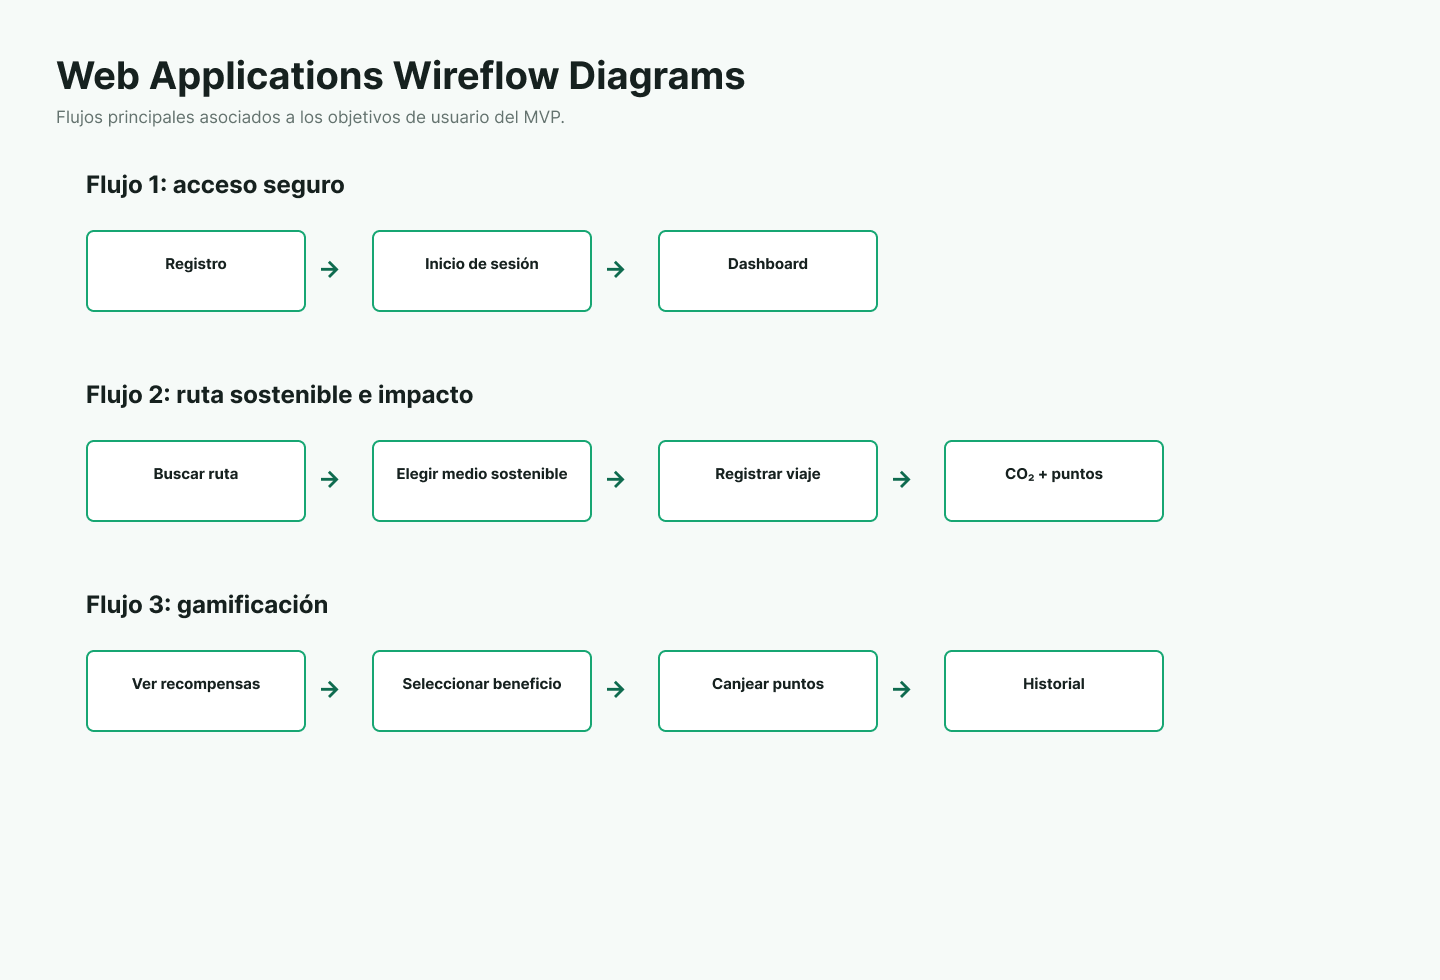
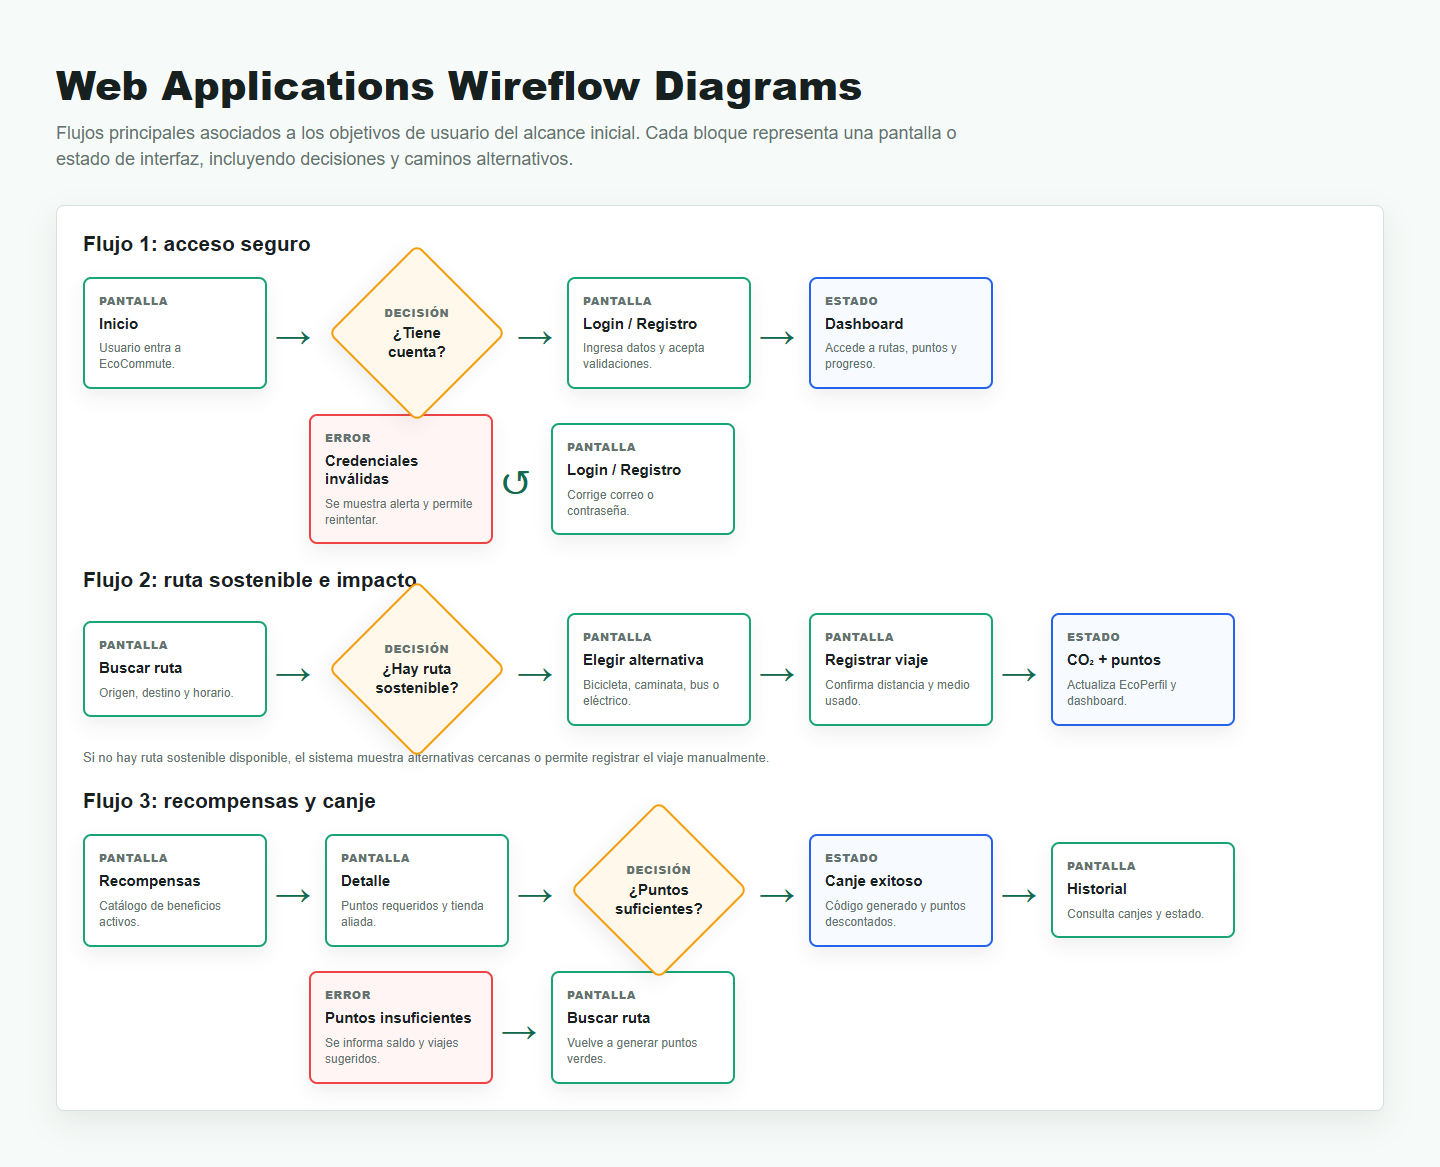
Improve wireflow diagrams

diff --git a/generate_cap3_assets.js b/generate_cap3_assets.js
@@ -83,6 +83,29 @@ const html = String.raw`<!doctype html>
   .flow { display:flex; align-items:center; gap:20px; margin-bottom:24px; }
   .flowbox { background:white; border:2px solid var(--green); border-radius:8px; padding:20px; width:230px; min-height:82px; font-weight:800; display:flex; align-items:center; justify-content:center; text-align:center; }
   .arrow { color:var(--green-dark); font-size:36px; font-weight:900; }
+  .wireflow-card { padding: 26px; }
+  .wireflow-grid { display:grid; gap:24px; }
+  .flow-row { display:grid; grid-template-columns: 184px 42px 184px 42px 184px 42px 184px 42px 184px; align-items:center; gap:8px; }
+  .flow-row.short { grid-template-columns: 184px 42px 184px 42px 184px 42px 184px; }
+  .screen-node,
+  .decision-node,
+  .state-node { min-height:94px; border-radius:8px; padding:14px; background:var(--white); border:2px solid var(--green); display:flex; flex-direction:column; justify-content:center; gap:7px; box-shadow:0 8px 18px rgba(22,33,31,.07); }
+  .screen-node span,
+  .decision-node span,
+  .state-node span { font-size:11px; text-transform:uppercase; letter-spacing:.06em; color:var(--muted); font-weight:800; }
+  .screen-node strong,
+  .decision-node strong,
+  .state-node strong { font-size:15px; line-height:1.25; }
+  .screen-node p,
+  .decision-node p,
+  .state-node p { margin:0; color:var(--muted); font-size:12px; line-height:1.35; }
+  .decision-node { width:126px; min-height:126px; justify-self:center; transform:rotate(45deg); border-color:var(--amber); background:#FFF8EB; }
+  .decision-node > div { transform:rotate(-45deg); text-align:center; }
+  .decision-node span { display:block; margin-bottom:4px; }
+  .state-node { border-color:var(--blue); background:#F7FAFF; }
+  .error-node { border-color:#EF4444; background:#FFF5F5; }
+  .flow-note { color:var(--muted); font-size:13px; margin:18px 0 0; }
+  .flow-branch { margin-top:18px; margin-left:226px; display:grid; grid-template-columns:184px 42px 184px; align-items:center; gap:8px; }
   .erd { display:grid; grid-template-columns: repeat(4, 1fr); gap:18px; }
   .entity { background:white; border:2px solid var(--green-dark); border-radius:8px; overflow:hidden; font-size:14px; }
   .entity h4 { margin:0; background:var(--green-dark); color:white; padding:10px 12px; font-size:16px; }
@@ -182,14 +205,63 @@ const html = String.raw`<!doctype html>
 
 <section class="canvas" id="wireflows">
   <h1 class="title">Web Applications Wireflow Diagrams</h1>
-  <p class="sub">Flujos principales asociados a los objetivos de usuario del alcance inicial.</p>
-  <div class="card">
-    <h3>Flujo 1: acceso seguro</h3>
-    <div class="flow"><div class="flowbox">Registro</div><div class="arrow">→</div><div class="flowbox">Inicio de sesión</div><div class="arrow">→</div><div class="flowbox">Dashboard</div></div>
-    <h3>Flujo 2: ruta sostenible e impacto</h3>
-    <div class="flow"><div class="flowbox">Buscar ruta</div><div class="arrow">→</div><div class="flowbox">Elegir medio sostenible</div><div class="arrow">→</div><div class="flowbox">Registrar viaje</div><div class="arrow">→</div><div class="flowbox">CO₂ + puntos</div></div>
-    <h3>Flujo 3: gamificación</h3>
-    <div class="flow"><div class="flowbox">Ver recompensas</div><div class="arrow">→</div><div class="flowbox">Seleccionar beneficio</div><div class="arrow">→</div><div class="flowbox">Canjear puntos</div><div class="arrow">→</div><div class="flowbox">Historial</div></div>
+  <p class="sub">Flujos principales asociados a los objetivos de usuario del alcance inicial. Cada bloque representa una pantalla o estado de interfaz, incluyendo decisiones y caminos alternativos.</p>
+  <div class="card wireflow-card">
+    <div class="wireflow-grid">
+      <div>
+        <h3>Flujo 1: acceso seguro</h3>
+        <div class="flow-row short">
+          <div class="screen-node"><span>Pantalla</span><strong>Inicio</strong><p>Usuario entra a EcoCommute.</p></div>
+          <div class="arrow">→</div>
+          <div class="decision-node"><div><span>Decisión</span><strong>¿Tiene cuenta?</strong></div></div>
+          <div class="arrow">→</div>
+          <div class="screen-node"><span>Pantalla</span><strong>Login / Registro</strong><p>Ingresa datos y acepta validaciones.</p></div>
+          <div class="arrow">→</div>
+          <div class="state-node"><span>Estado</span><strong>Dashboard</strong><p>Accede a rutas, puntos y progreso.</p></div>
+        </div>
+        <div class="flow-branch">
+          <div class="error-node screen-node"><span>Error</span><strong>Credenciales inválidas</strong><p>Se muestra alerta y permite reintentar.</p></div>
+          <div class="arrow">↺</div>
+          <div class="screen-node"><span>Pantalla</span><strong>Login / Registro</strong><p>Corrige correo o contraseña.</p></div>
+        </div>
+      </div>
+
+      <div>
+        <h3>Flujo 2: ruta sostenible e impacto</h3>
+        <div class="flow-row">
+          <div class="screen-node"><span>Pantalla</span><strong>Buscar ruta</strong><p>Origen, destino y horario.</p></div>
+          <div class="arrow">→</div>
+          <div class="decision-node"><div><span>Decisión</span><strong>¿Hay ruta sostenible?</strong></div></div>
+          <div class="arrow">→</div>
+          <div class="screen-node"><span>Pantalla</span><strong>Elegir alternativa</strong><p>Bicicleta, caminata, bus o eléctrico.</p></div>
+          <div class="arrow">→</div>
+          <div class="screen-node"><span>Pantalla</span><strong>Registrar viaje</strong><p>Confirma distancia y medio usado.</p></div>
+          <div class="arrow">→</div>
+          <div class="state-node"><span>Estado</span><strong>CO₂ + puntos</strong><p>Actualiza EcoPerfil y dashboard.</p></div>
+        </div>
+        <p class="flow-note">Si no hay ruta sostenible disponible, el sistema muestra alternativas cercanas o permite registrar el viaje manualmente.</p>
+      </div>
+
+      <div>
+        <h3>Flujo 3: recompensas y canje</h3>
+        <div class="flow-row">
+          <div class="screen-node"><span>Pantalla</span><strong>Recompensas</strong><p>Catálogo de beneficios activos.</p></div>
+          <div class="arrow">→</div>
+          <div class="screen-node"><span>Pantalla</span><strong>Detalle</strong><p>Puntos requeridos y tienda aliada.</p></div>
+          <div class="arrow">→</div>
+          <div class="decision-node"><div><span>Decisión</span><strong>¿Puntos suficientes?</strong></div></div>
+          <div class="arrow">→</div>
+          <div class="state-node"><span>Estado</span><strong>Canje exitoso</strong><p>Código generado y puntos descontados.</p></div>
+          <div class="arrow">→</div>
+          <div class="screen-node"><span>Pantalla</span><strong>Historial</strong><p>Consulta canjes y estado.</p></div>
+        </div>
+        <div class="flow-branch">
+          <div class="error-node screen-node"><span>Error</span><strong>Puntos insuficientes</strong><p>Se informa saldo y viajes sugeridos.</p></div>
+          <div class="arrow">→</div>
+          <div class="screen-node"><span>Pantalla</span><strong>Buscar ruta</strong><p>Vuelve a generar puntos verdes.</p></div>
+        </div>
+      </div>
+    </div>
   </div>
 </section>
 
@@ -220,7 +292,10 @@ fs.writeFileSync(path.join(outDir, "capitulo-3-assets.html"), html);
 
 async function main() {
   const { chromium } = require("playwright");
-  const browser = await chromium.launch({ headless: true });
+  const browser = await chromium.launch({
+    headless: true,
+    executablePath: process.env.CHROME_PATH || undefined,
+  });
   const page = await browser.newPage({ viewport: { width: 1500, height: 1100 }, deviceScaleFactor: 1 });
   await page.goto("file://" + path.join(outDir, "capitulo-3-assets.html").replace(/\\/g, "/"));
   const ids = ["style-guide", "landing-wireframe", "landing-mockup", "app-mockups", "dashboard-full", "wireflows", "erd"];

diff --git a/assets/capitulo-3/capitulo-3-assets.html b/assets/capitulo-3/capitulo-3-assets.html
@@ -77,6 +77,29 @@
   .flow { display:flex; align-items:center; gap:20px; margin-bottom:24px; }
   .flowbox { background:white; border:2px solid var(--green); border-radius:8px; padding:20px; width:230px; min-height:82px; font-weight:800; display:flex; align-items:center; justify-content:center; text-align:center; }
   .arrow { color:var(--green-dark); font-size:36px; font-weight:900; }
+  .wireflow-card { padding: 26px; }
+  .wireflow-grid { display:grid; gap:24px; }
+  .flow-row { display:grid; grid-template-columns: 184px 42px 184px 42px 184px 42px 184px 42px 184px; align-items:center; gap:8px; }
+  .flow-row.short { grid-template-columns: 184px 42px 184px 42px 184px 42px 184px; }
+  .screen-node,
+  .decision-node,
+  .state-node { min-height:94px; border-radius:8px; padding:14px; background:var(--white); border:2px solid var(--green); display:flex; flex-direction:column; justify-content:center; gap:7px; box-shadow:0 8px 18px rgba(22,33,31,.07); }
+  .screen-node span,
+  .decision-node span,
+  .state-node span { font-size:11px; text-transform:uppercase; letter-spacing:.06em; color:var(--muted); font-weight:800; }
+  .screen-node strong,
+  .decision-node strong,
+  .state-node strong { font-size:15px; line-height:1.25; }
+  .screen-node p,
+  .decision-node p,
+  .state-node p { margin:0; color:var(--muted); font-size:12px; line-height:1.35; }
+  .decision-node { width:126px; min-height:126px; justify-self:center; transform:rotate(45deg); border-color:var(--amber); background:#FFF8EB; }
+  .decision-node > div { transform:rotate(-45deg); text-align:center; }
+  .decision-node span { display:block; margin-bottom:4px; }
+  .state-node { border-color:var(--blue); background:#F7FAFF; }
+  .error-node { border-color:#EF4444; background:#FFF5F5; }
+  .flow-note { color:var(--muted); font-size:13px; margin:18px 0 0; }
+  .flow-branch { margin-top:18px; margin-left:226px; display:grid; grid-template-columns:184px 42px 184px; align-items:center; gap:8px; }
   .erd { display:grid; grid-template-columns: repeat(4, 1fr); gap:18px; }
   .entity { background:white; border:2px solid var(--green-dark); border-radius:8px; overflow:hidden; font-size:14px; }
   .entity h4 { margin:0; background:var(--green-dark); color:white; padding:10px 12px; font-size:16px; }
@@ -176,14 +199,63 @@
 
 <section class="canvas" id="wireflows">
   <h1 class="title">Web Applications Wireflow Diagrams</h1>
-  <p class="sub">Flujos principales asociados a los objetivos de usuario del alcance inicial.</p>
-  <div class="card">
-    <h3>Flujo 1: acceso seguro</h3>
-    <div class="flow"><div class="flowbox">Registro</div><div class="arrow">→</div><div class="flowbox">Inicio de sesión</div><div class="arrow">→</div><div class="flowbox">Dashboard</div></div>
-    <h3>Flujo 2: ruta sostenible e impacto</h3>
-    <div class="flow"><div class="flowbox">Buscar ruta</div><div class="arrow">→</div><div class="flowbox">Elegir medio sostenible</div><div class="arrow">→</div><div class="flowbox">Registrar viaje</div><div class="arrow">→</div><div class="flowbox">CO₂ + puntos</div></div>
-    <h3>Flujo 3: gamificación</h3>
-    <div class="flow"><div class="flowbox">Ver recompensas</div><div class="arrow">→</div><div class="flowbox">Seleccionar beneficio</div><div class="arrow">→</div><div class="flowbox">Canjear puntos</div><div class="arrow">→</div><div class="flowbox">Historial</div></div>
+  <p class="sub">Flujos principales asociados a los objetivos de usuario del alcance inicial. Cada bloque representa una pantalla o estado de interfaz, incluyendo decisiones y caminos alternativos.</p>
+  <div class="card wireflow-card">
+    <div class="wireflow-grid">
+      <div>
+        <h3>Flujo 1: acceso seguro</h3>
+        <div class="flow-row short">
+          <div class="screen-node"><span>Pantalla</span><strong>Inicio</strong><p>Usuario entra a EcoCommute.</p></div>
+          <div class="arrow">→</div>
+          <div class="decision-node"><div><span>Decisión</span><strong>¿Tiene cuenta?</strong></div></div>
+          <div class="arrow">→</div>
+          <div class="screen-node"><span>Pantalla</span><strong>Login / Registro</strong><p>Ingresa datos y acepta validaciones.</p></div>
+          <div class="arrow">→</div>
+          <div class="state-node"><span>Estado</span><strong>Dashboard</strong><p>Accede a rutas, puntos y progreso.</p></div>
+        </div>
+        <div class="flow-branch">
+          <div class="error-node screen-node"><span>Error</span><strong>Credenciales inválidas</strong><p>Se muestra alerta y permite reintentar.</p></div>
+          <div class="arrow">↺</div>
+          <div class="screen-node"><span>Pantalla</span><strong>Login / Registro</strong><p>Corrige correo o contraseña.</p></div>
+        </div>
+      </div>
+
+      <div>
+        <h3>Flujo 2: ruta sostenible e impacto</h3>
+        <div class="flow-row">
+          <div class="screen-node"><span>Pantalla</span><strong>Buscar ruta</strong><p>Origen, destino y horario.</p></div>
+          <div class="arrow">→</div>
+          <div class="decision-node"><div><span>Decisión</span><strong>¿Hay ruta sostenible?</strong></div></div>
+          <div class="arrow">→</div>
+          <div class="screen-node"><span>Pantalla</span><strong>Elegir alternativa</strong><p>Bicicleta, caminata, bus o eléctrico.</p></div>
+          <div class="arrow">→</div>
+          <div class="screen-node"><span>Pantalla</span><strong>Registrar viaje</strong><p>Confirma distancia y medio usado.</p></div>
+          <div class="arrow">→</div>
+          <div class="state-node"><span>Estado</span><strong>CO₂ + puntos</strong><p>Actualiza EcoPerfil y dashboard.</p></div>
+        </div>
+        <p class="flow-note">Si no hay ruta sostenible disponible, el sistema muestra alternativas cercanas o permite registrar el viaje manualmente.</p>
+      </div>
+
+      <div>
+        <h3>Flujo 3: recompensas y canje</h3>
+        <div class="flow-row">
+          <div class="screen-node"><span>Pantalla</span><strong>Recompensas</strong><p>Catálogo de beneficios activos.</p></div>
+          <div class="arrow">→</div>
+          <div class="screen-node"><span>Pantalla</span><strong>Detalle</strong><p>Puntos requeridos y tienda aliada.</p></div>
+          <div class="arrow">→</div>
+          <div class="decision-node"><div><span>Decisión</span><strong>¿Puntos suficientes?</strong></div></div>
+          <div class="arrow">→</div>
+          <div class="state-node"><span>Estado</span><strong>Canje exitoso</strong><p>Código generado y puntos descontados.</p></div>
+          <div class="arrow">→</div>
+          <div class="screen-node"><span>Pantalla</span><strong>Historial</strong><p>Consulta canjes y estado.</p></div>
+        </div>
+        <div class="flow-branch">
+          <div class="error-node screen-node"><span>Error</span><strong>Puntos insuficientes</strong><p>Se informa saldo y viajes sugeridos.</p></div>
+          <div class="arrow">→</div>
+          <div class="screen-node"><span>Pantalla</span><strong>Buscar ruta</strong><p>Vuelve a generar puntos verdes.</p></div>
+        </div>
+      </div>
+    </div>
   </div>
 </section>
 
